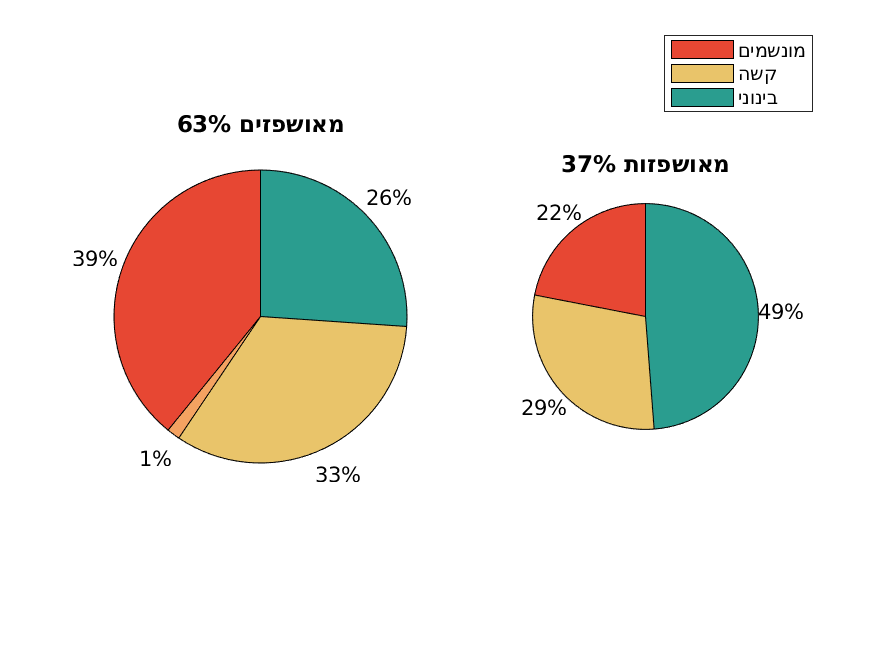
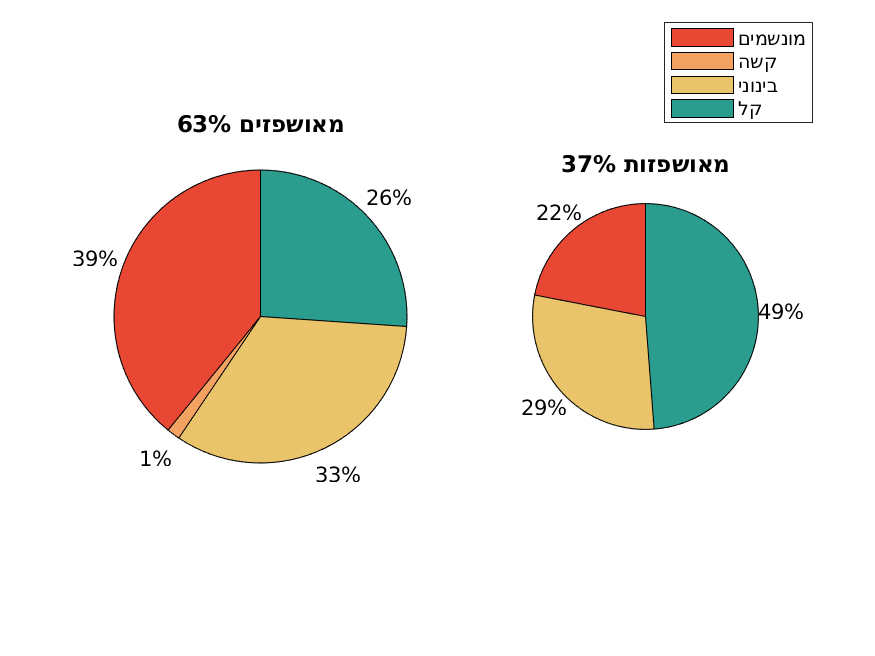
legend pie

Changed region(s): [[0.7406, 0.0305, 0.9257, 0.1829]]

diff --git a/code/covid_israel_timna_hosp.m b/code/covid_israel_timna_hosp.m
@@ -54,12 +54,12 @@ fig = figure;
 for ip = 1:2
     % bar([male,female]','stack')
     subplot(1,2,ip)
-    p = pie(round(y(:,ip)));
+    ph{ip} = pie(round(y(:,ip)));
     xlim([-ratio(ip) ratio(ip)])
     title(titles{ip})
 end
 colormap([231,71,51;244,162,97;233,196,106;42,157,143]./255);
-legend('מונשמים','קשה','בינוני','קל',[350,275,10,10])
+legend(ph{1}([1,3,5,7]),'מונשמים','קשה','בינוני','קל',[350,275,10,10])
 saveas(fig,'docs/Israel_gender.png')
 %% regions in israel
 
